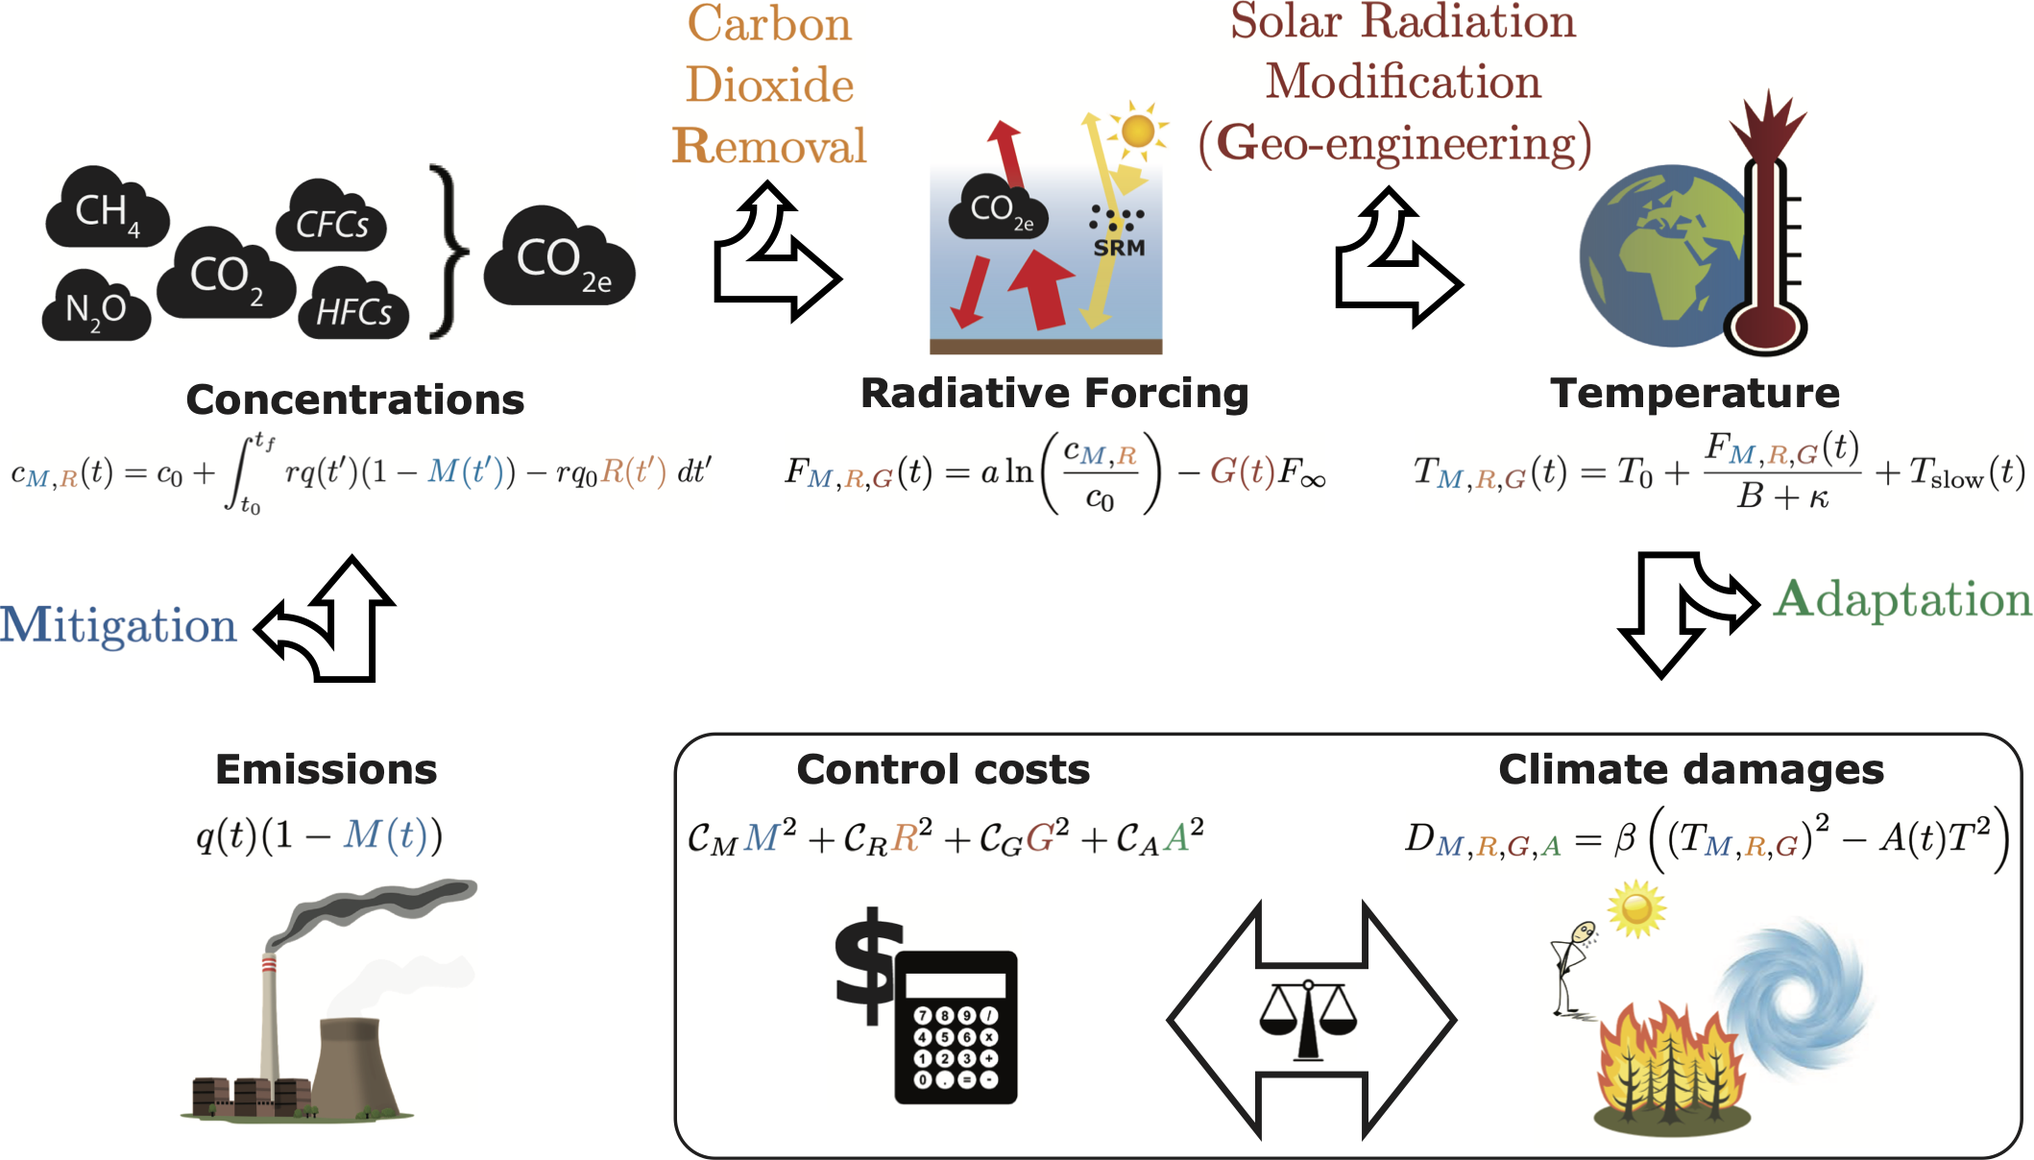
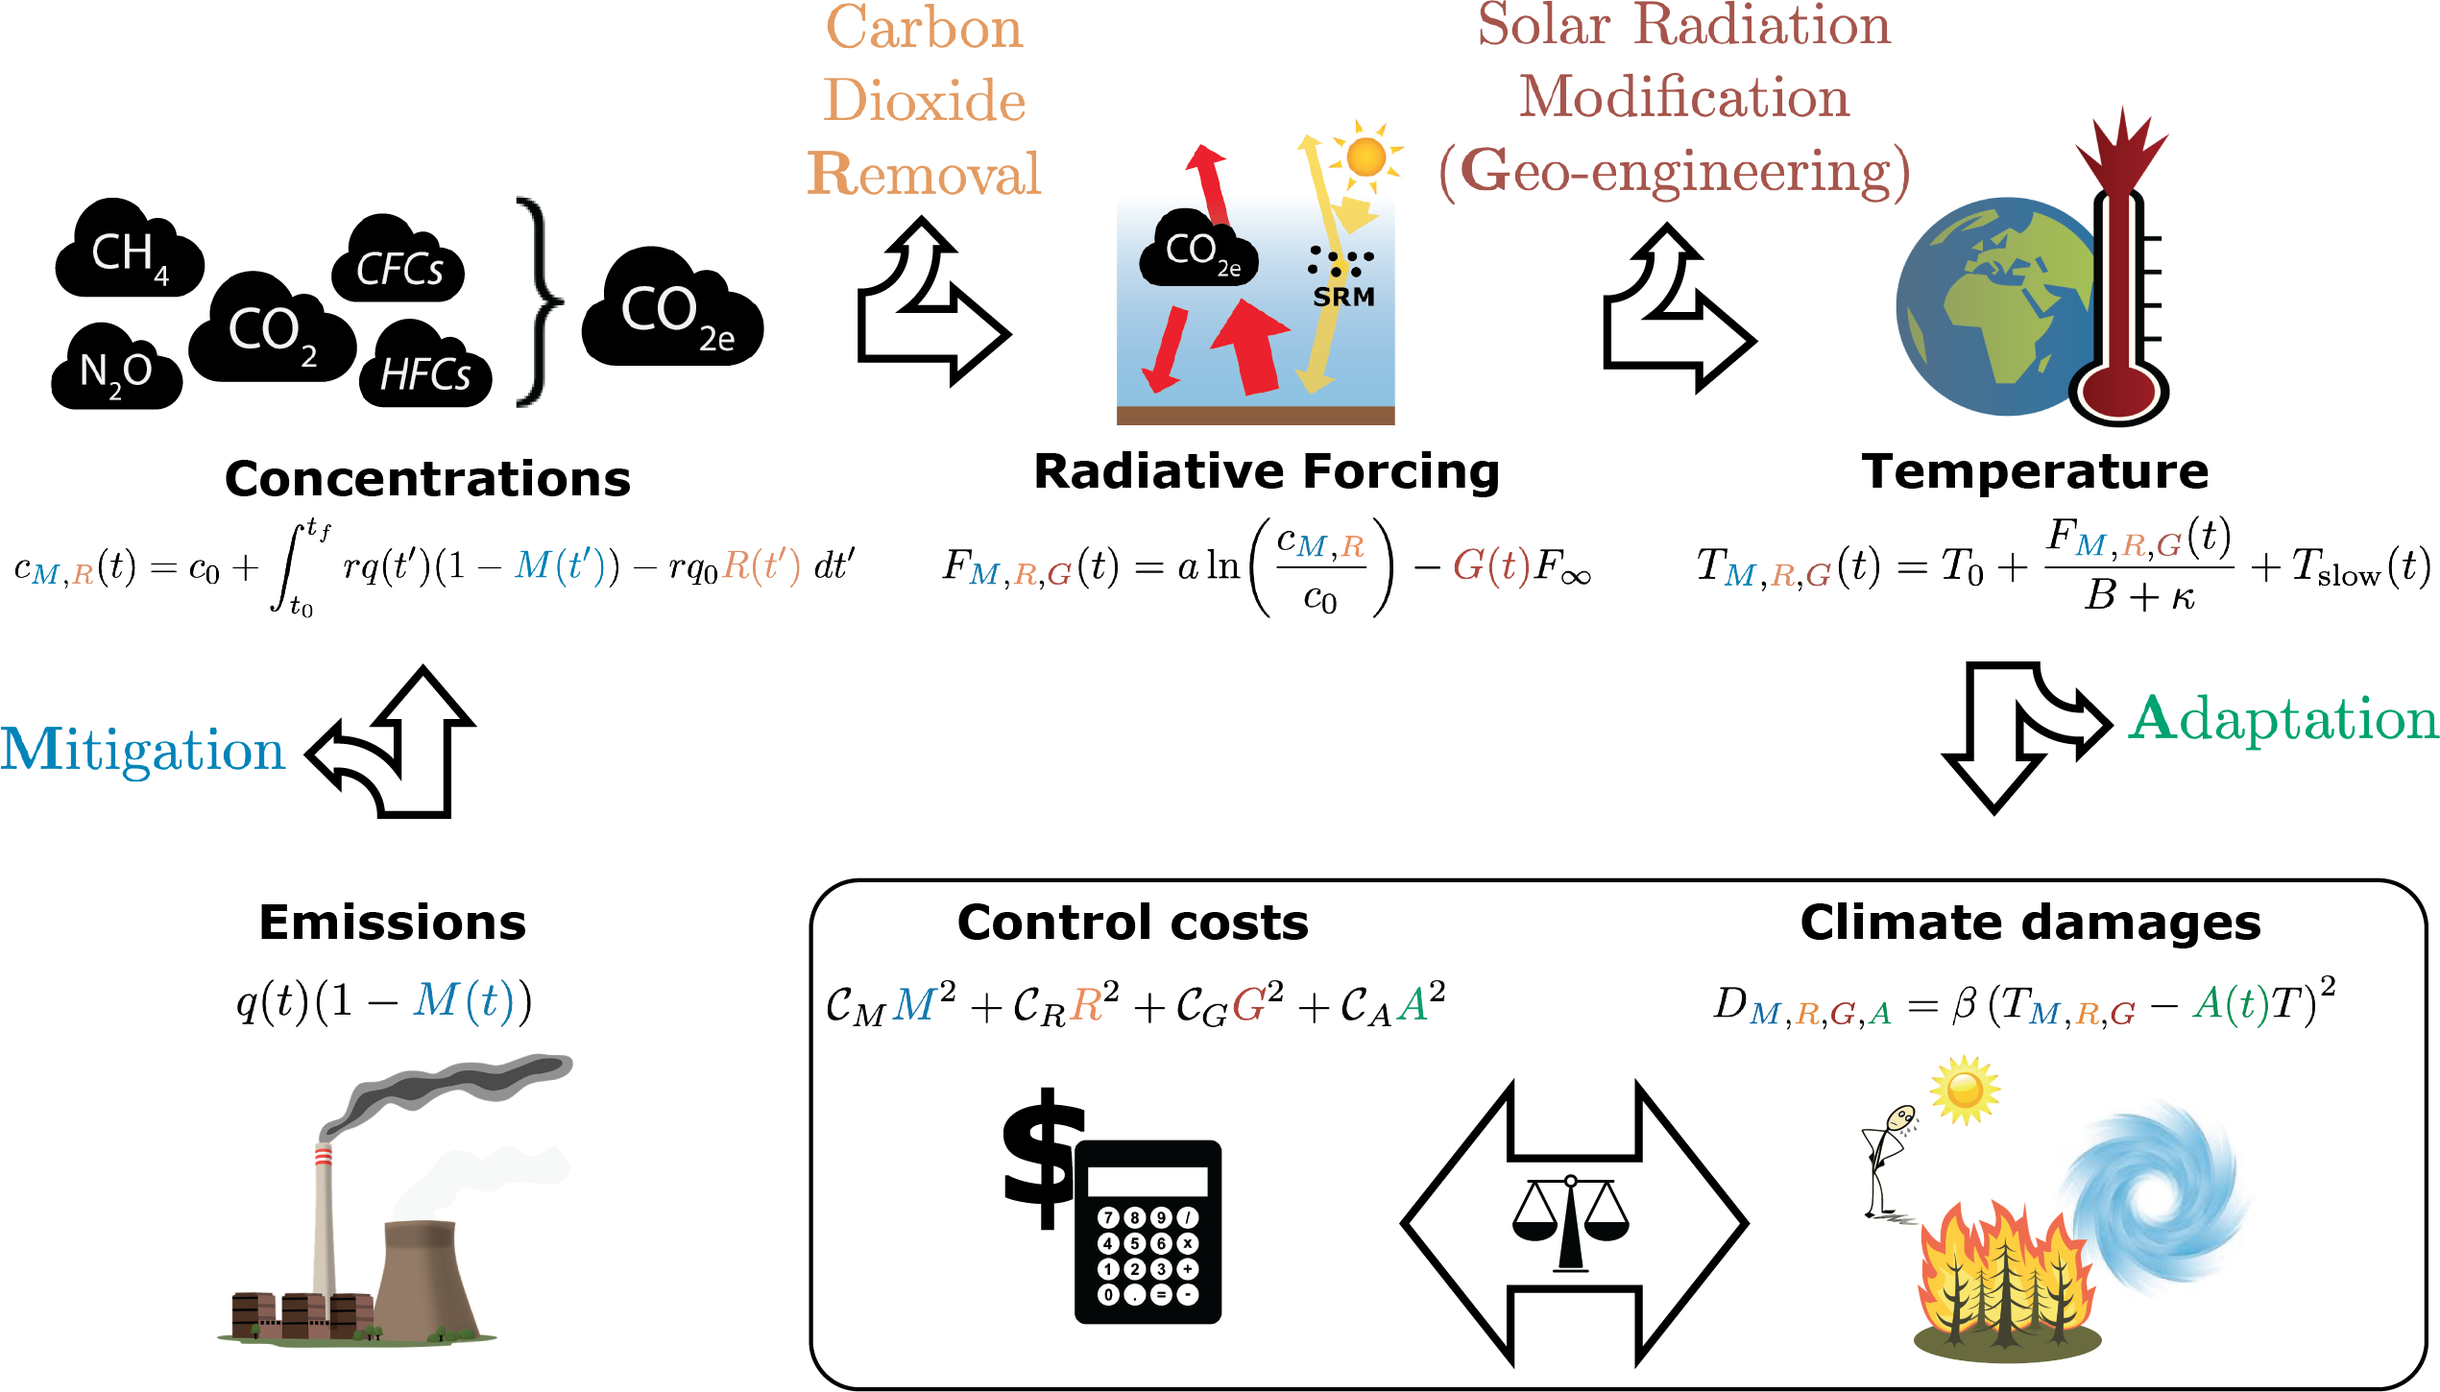
Update documentation (#67)
* Fixed emissions plot by masked mitigation when it vanishes.

* Increased default geoengineering cost.

* Updated default Tgoal to 1.5ºC

* Added forcing plot and make default plots "wedges"

* Updated adaptation parameterization

Adaptation now acts to remove a fraction of the *baseline* temperature.

Adaptation costs have been quadrupled to reflect the fact that baseline temps are typically higher than controlled temps.

Updated default optimization "obj_option" to adaptive temperature and reduced default temp_goal to 1.1

Slightly changed adaptation cost

* Increment version

* Added repo link to project.toml

* transfered ownership from hdrake to ClimateMARGO.jl (shouldn't be breaking)

* Updated schematic w/ new adaptation

* rename and fix future mask

* fixed overshoot (for adaptived temp)

Had a typo where the temp_goal was still being used as temp_overshoot for the "adaptive_temp" option.

* Fixed a bug in the 1D and 2D optimization examples.

* Updating documentation a bit

diff --git a/docs/src/theory.md b/docs/src/theory.md
@@ -1,8 +1,10 @@
 # Theory
 
+The theory below formulates the simple default configuration of the MARGO model. We invite users to modify these equations or add additional ones, as required by their use cases.
+
 ## The causal chain of climate suffering
 
-It is helpful to conceptualize climate change as a four step process that connects the human-caused emissions of greenhouse gases (GHGs) to the eventual climate suffering (or damages) that they cause. This four-step framing reflects the four major human controls (or controls) which can sever these links to reduce climate suffering: **M**itigation of GHG emissions (e.g. switching away from fossil fuels), **R**emoval of carbon dioxide from the atmosphere (e.g. by planting trees or storing biofuel emissions underground), **G**eoengineering by solar radiation management (e.g. injecting sulfate aerosols into the stratosphere to reduce incoming sunlight), or **A**dapting to the changed climate (e.g. relocating coastal communities displaced by rising seas or expanding indoor air condititiong to fight off intensifying heat waves).
+It is helpful to conceptualize climate change as a four step process that connects the human-caused emissions of greenhouse gases (GHGs) to the eventual climate suffering (or damages) that they cause. This four-step framing reflects the four major human actions (or controls) which can sever these links to reduce climate suffering: **M**itigation of GHG emissions (e.g. switching away from fossil fuels), **R**emoval of carbon dioxide from the atmosphere (e.g. by planting trees or storing biofuel emissions underground), **G**eoengineering by solar radiation management (e.g. injecting sulfate aerosols into the stratosphere to reduce incoming sunlight), or **A**dapting to the changed climate (e.g. relocating coastal communities displaced by rising seas or expanding indoor air condititiong to fight off intensifying heat waves).
 
 ```math
 \text{Emissions}\,
@@ -16,26 +18,26 @@ It is helpful to conceptualize climate change as a four step process that connec
 \text{Suffering}.
 ```
 
-Letting climate change run rampant would clearly cause a lot of suffering; however, climate controls that keep climate change under control are not free either. MARGO empowers users to explore the trade-offs between climate controls and climate suffering by employing an optimization framework commonly used in the climate-economics community. In this section, we develop a simple theory– a set of mathematical equations– which capture the key aspects of the entire causal chain of climate damages.
+Letting climate change run rampant would clearly cause a lot of suffering; however, climate controls that slow or stop climate change are not free either. MARGO empowers users to explore the trade-offs between climate controls and climate suffering by employing an optimization framework commonly used in the climate-economics community. In this section, we develop a simple theory– a set of mathematical equations– which capture the key aspects of the entire causal chain of climate damages.
 
 ![MARGO schematic](MARGO_schematic.png)
 
 !!! ukw "Tuning MARGO's free parameters"
-    We have attempted to make reasonable choices for the default values of MARGO's parameters in the equations below. Some of these, such as the climate physics variables, are well justified based on the best climate science research; others, such as the socio-economic parameters, are chosen based on our values (or those represented in the academic climate change literature). We encourage users to question these choices and plug their own values into ClimateMARGO. If you feel strongly that we should change some of the default values included in the model code, please reach out to us by [opening an issue](https://github.com/hdrake/ClimateMARGO.jl/labels/criticism) on Github.
+    We have attempted to make reasonable choices for the default values of MARGO's parameters in the equations below. Some of these, such as the climate physics variables, are well justified based on the best climate science research; others, such as the socio-economic parameters, are chosen based on our values (or those represented in the academic climate change literature). We encourage users to question these choices and plug their own values into ClimateMARGO. If you feel strongly that we should change some of the default values included in the model code, please reach out to us by [opening an issue](https://github.com/ClimateMARGO/ClimateMARGO.jl/labels/criticism) on Github.
 
 ## Greenhouse gas emissions
 
-While greenhouse gases include more than just the dominant carbon dioxide (CO``_{2}``), it simplifies things greatly to just bundle these into an equivalent concentration CO``_{2e}``. In MARGO, CO``_{2e}`` is emitted at a rate ``q(t)``, with only a fraction ``r = 50\%`` remaining in the atmosphere after a few years, net of uptake by the ocean and terrestrial biosphere.
+Since carbon dioxide (CO``_{2}``) is the dominant anthropogenic greenhouse gas, it dramatically simplifies the model to bundle all of the other gases into an equivalent concentration CO``_{2e}``, which produces an equivalent greenhouse effect. In MARGO, CO``_{2e}`` is emitted at a rate ``q(t)``, with only a fraction ``r`` remaining in the atmosphere after a few years, net of uptake by the ocean and terrestrial biosphere.
 
 !!! note "Climate control: Emissions mitigation"
     GHG emissions are reduced by a **M**itigation factor ``(1-M(t))``, becoming ``q(t)(1-M(t))``, where ``M(t)`` varies between 0% (high-emissions baseline) and 100% (full decarbonization).
 
 ## Greenhouse gas concentrations
 
-CO``_{2e}`` continues to accumulate in the atmosphere and its concentrations ``c(t)= c_{0} + \int_{t_{0}}^{t} rq(t)\text{ d}t\,`` will increase as long as the emissions ``q(t)`` are greater than zero.
+CO``_{2e}`` continues to accumulate in the atmosphere and its concentrations ``c(t)= c_{0} + \int_{t_{0}}^{t} rq(t')\text{ d}t' \,`` will increase as long as the emissions ``q(t)`` are greater than zero.
 
 !!! note "Climate control: Carbon dioxide removal"
-    **R**emoval of CO``_{2e}``, in contrast to mitigation, is de-coupled from instantaneous emissions and is expressed as the percentage of 2020 baseline emissions that are removed from the atmosphere in a given year, ``q_{0}R(t)``. A maximal value of ``R=100\%`` corresponds to removing ``30`` GtCO``_{2e}`` per year, which is roughly equal to a recent upper-bound estimate of the global potential for negative emission technologies.
+    **R**emoval of CO``_{2e}``, in contrast to mitigation, is de-coupled from instantaneous emissions and is expressed as the percentage of 2020 baseline emissions that are removed from the atmosphere in a given year, ``q_{0}R(t)``. A value of ``R=100\%`` corresponds to removing ``60`` GtCO``_{2e}`` per year, which is roughly equal to a recent upper-bound estimate of the global potential for negative emission technologies.
 
     A useful diagnostic quantity is the effective emissions
     ```math
@@ -72,13 +74,13 @@ where ``T_{0} = 1.1``°C is the present warming relative to preindustrial and ``
 Anthropogenic warming causes a myriad of climate impacts, which result suffering (expressed in an economic model as a loss in welfare or monetary damages) that increase non-linearly with temperature, ``D = \beta T^{2}``, where the damage parameter ``\beta`` is tuned such that a warming of ``3``°C results in damages of the ``2\%`` of Gross World Product (GWP), consistent with DICE in the limit of non-catastrophic warming.
 
 !!! note "Climate control: Adaptation"
-    **A**daptation to climate impacts acts to reduce damages by a fraction ``A(t)``. Since some climate impacts are likely impossible to adapt to, we assume that adaptation can at most reduce climate damages by ``A < 40\%``. The controlled damages are thus given by
+    **A**daptation to climate impacts acts to reduce damages by a fraction ``A`` of the baseline damages. Since some climate impacts are likely impossible to adapt to, we assume by default that adaptation can at most reduce climate damages by ``A \ll 100\%``. The controlled damages are thus given by
     ```math
-        D_{M,R,G,A} = \beta (T_{M,R,G})^{2} (1-A(t)).
+        D_{M,R,G,A} = \beta (T_{M,R,G} - A(t) T)^{2}.
     ```
-    Although adaptation does not affect the planetary temperature directly, it is useful to consider an "adapted temperature" ``T_{M,R,G,A}`` which yields controlled damages equivalent to the fully-controlled damages ``\beta (T_{M,R,G,A})^{2} = \beta (T_{M,R,G})^{2} (1-A)`` and is defined
+    Although adaptation does not affect the planetary temperature directly, it is useful to consider an "adapted temperature" ``T_{M,R,G,A}`` which yields controlled damages equivalent to the fully-controlled damages ``\beta (T_{M,R,G,A})^{2} = \beta (T_{M,R,G} - AT)^{2}`` and is defined
     ```math
-        T_{M,R,G,A} \equiv T_{M,R,G} \sqrt{(1-A)}.
+        T_{M,R,G,A} \equiv T_{M,R,G} - A T.
     ```
 
 ## The costs and benefits of climate control

diff --git a/docs/src/index.md b/docs/src/index.md
@@ -2,24 +2,24 @@
 
 A Julia implementation of **MARGO**, an idealized framework for the **O**ptimization of four climate change control strategies: **M**itigation, **A**daptation, **R**emoval of carbon dioxide, and **G**eoengineering by solar radiation management.
 
-ClimateMARGO.jl couples together a very simple model of Earth's physical climate with a very simple economic model of climate damages (and the costs of controls that reduce those damages). Our design philosophy is for the MARGO model to be *as simple as possible* while still producing quasi-realistic climate trajectories over the next few hundred years.
+ClimateMARGO.jl couples together a very simple model of Earth's physical climate with a very simple economic model of climate damages (and the costs of "controls" that reduce those damages). Our design philosophy is that the MARGO model should be *as simple as possible* while still producing quasi-realistic climate trajectories over the next few hundred years.
 
 Compared to more conventional *Integrated Assessment Models (IAMs)*, MARGO is:
-* **Faster**: The algorithm solves convex optimization problems in less than 10 milliseconds (most use cases), meaning the model can be run interactively in real-time and that both large-ensemble, high-dimensional, and stochastic optimizations are all computationally feasible.
+* **Faster**: The algorithm solves convex optimization problems in less than 100 milliseconds (most use cases), meaning the model can be run interactively in real-time and that both large-ensemble, high-dimensional, and stochastic optimizations are all computationally feasible.
 * **More accessible**: The ClimateMARGO.jl package is free to use and is accessible in several different forms depending on the user's programming experience and use case:
   * *An interactive web-app (Coming Soon)* – For code-free interactive exploration of climate storylines (and their sensitivity to model parameters)
-  * *A browser-based binder tutorial* – For users with some programming experience who want to see (and run!) the *ClimateMARGO.jl* source code
+  * *A browser-based binder tutorial* – For users with some programming experience who want to run *ClimateMARGO.jl* themselves.
   * *Importing ClimateMARGO.jl* – For users proficient in Julia who want to use the MARGO model for education or scientific research
-  * *Forking ClimateMARGO.jl* – For users wanting to extend or fundamentally modify the MARGO model for scientific research
+  * *Forking ClimateMARGO.jl* – For users wanting to extend or fundamentally modify the MARGO model source code, e.g. for their own scientific or policy research
 * **More interpretable**: The entire model algorithm is simple enough to be expressed in a single closed-form math equation and is determined by only a handful of intuitive free parameters (see also the MARGO flowchart below).
-* **More transparent**: The MARGO model is developed as an entirely open-source Julia package, *ClimateMARGO.jl*, complete with documentation, in-depth tutorials, and publication-quality example simulations.
+* **More transparent**: The MARGO model is developed as an entirely open-source Julia package, *ClimateMARGO.jl*, complete with documentation, in-depth tutorials, and example applications.
 * **More general**: By including all four of the primary climate controls in the default configuration, more common configurations like "Mitigation-only" experiments are straight-forward to implement by simply turning unwanted features off.
 * **More explicitly value-dependent**: Rather than burying important value-dependent choices in various obscure economic and social parameters, we abstract away many of the complexities to yield a small number of intuitive parameters, which can be easily modified by users.
 * **More extendable**: The modular and interpretable nature of the Julia source implementation means that existing features can be easily modified and new features are easily added.
 
 !!! warning "Don't take MARGO's results too seriously"
-    The extreme simplicity of the MARGO model also means its *quantitative* results should be taken with a large pinch of salt. MARGO should instead be used to explore underlying *patterns* and *relative* climate outcomes.
+    The extreme simplicity of the MARGO model also means its *quantitative* results should be taken with a handful of salt. MARGO should instead be used to explore underlying *patterns* and *relative* climate outcomes.
 
 ## Getting help
 
-If you are interested in using ClimateMARGO.jl or are trying to figure out how to use it, please feel free to ask us questions and get in touch! Please feel free to [open an issue](https://github.com/hdrake/ClimateMARGO.jl/issues/new) if you have any questions, comments, suggestions, etc!
+If you are interested in using ClimateMARGO.jl or are trying to figure out how to use it, please feel free to ask us questions and get in touch! Please feel free to [open an issue](https://github.com/ClimateMARGO/ClimateMARGO.jl/issues/new) if you have any questions, comments, suggestions, etc!

diff --git a/docs/src/installation_instructions.md b/docs/src/installation_instructions.md
@@ -5,23 +5,21 @@ Julia command prompt) to add the package and instantiate/build all dependencies
 
 ```julia
 julia>]
-(v1.3) pkg> add ClimateMARGO
-(v1.3) pkg> instantiate
+(v1.5) pkg> add ClimateMARGO
+(v1.5) pkg> instantiate
 ```
 
-We recommend installing ClimateMARGO with the built-in Julia package manager, because this installs a stable, tagged
-release. ClimateMARGO.jl can be updated to the latest tagged release from the package manager by typing
-
+We recommend installing ClimateMARGO with the built-in Julia package manager, because this installs a stable, tagged release. ClimateMARGO.jl can be updated to the latest tagged release from the package manager by typing
 ```julia
-(v1.3) pkg> update ClimateMARGO
+(v1.5) pkg> update ClimateMARGO
 ```
 
 In some cases, it may be useful to install versions of ClimateMARGO from a development branch named [Branch name], which can be done by typing
 ```julia
-(v1.3) pkg> add https://github.com/hdrake/ClimateMARGO.jl#[Branch name]
+(v1.5) pkg> add https://github.com/ClimateMARGO/ClimateMARGO.jl#[Branch name]
 ```
 
-At this time, updating should be done with care, as ClimateMARGO is under rapid development and breaking changes to the user API occur often. But if anything does happen, please open an issue!
+At this time (and until ClimateMARGO v1.0.0), updating should be done with care, as ClimateMARGO is under rapid development and breaking changes to the user API occur often. But if anything does happen, please open an issue!
 
-!!! warn "Use Julia 1.3 or newer"
-    ClimateMARGO requires at least Julia v1.3 to run.
+!!! warn "Use Julia 1.5 or newer"
+    ClimateMARGO requires at least Julia v1.5 to run.
